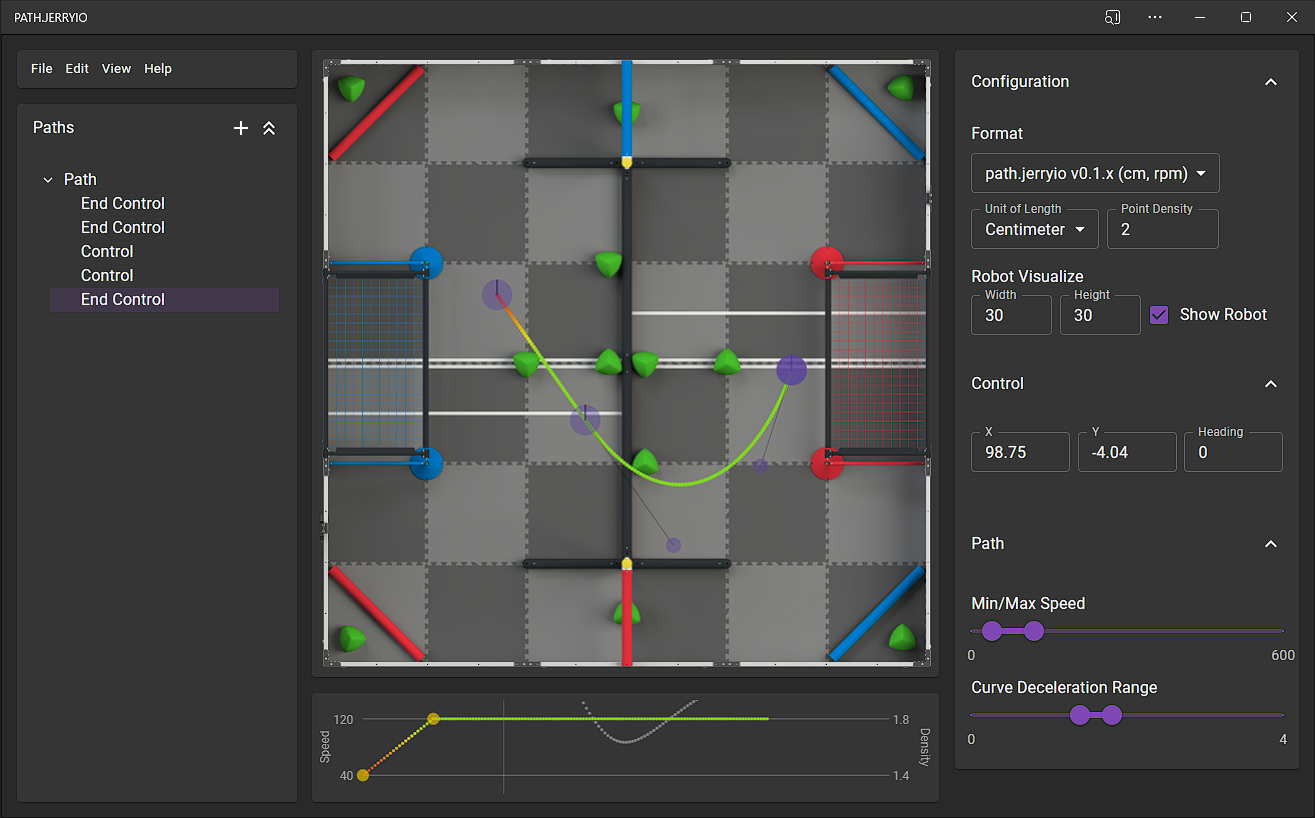
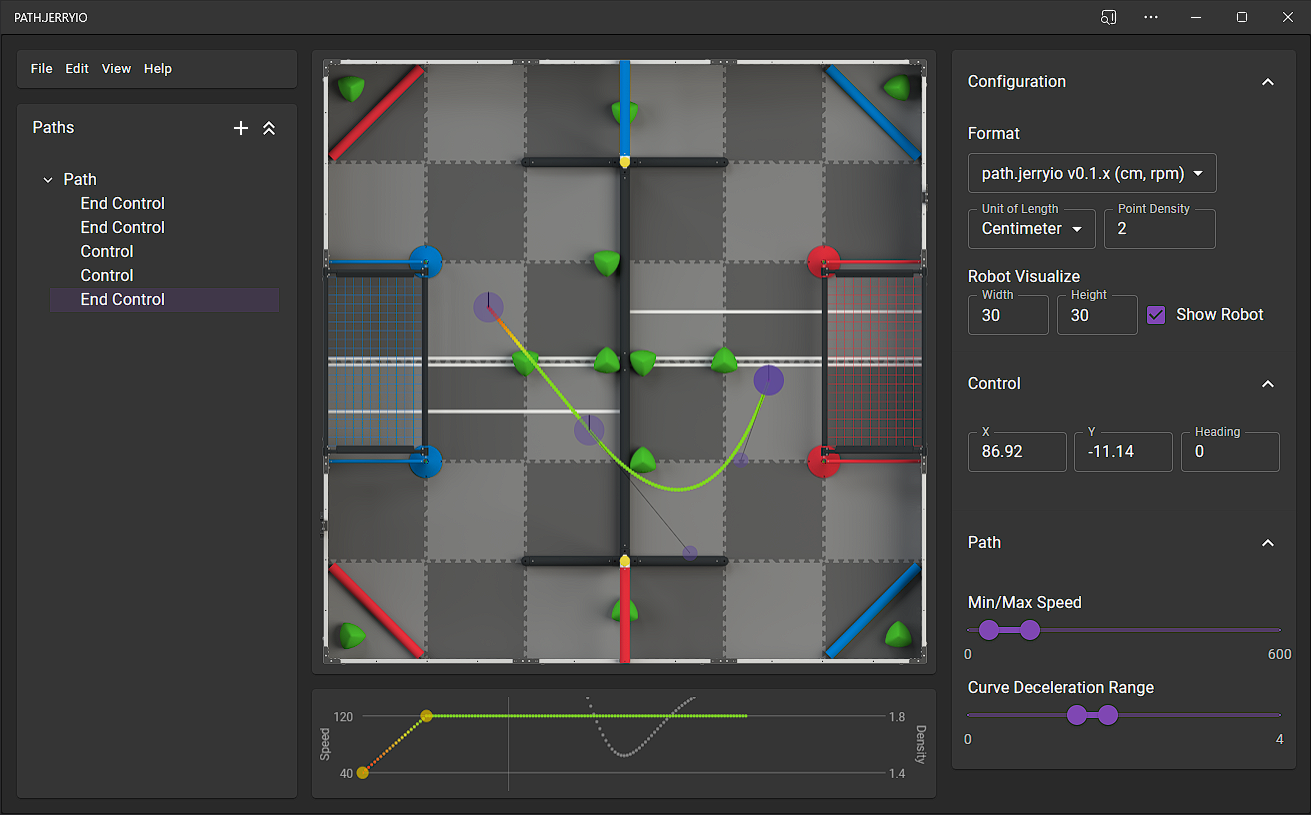
:art: Fix theme color

diff --git a/src/App.scss b/src/App.scss
@@ -224,6 +224,11 @@
   transition: none !important;
 }
 
+// For accordion
+.MuiPaper-root {
+  background-image: none !important; // remove tiny dot pattern in accordion
+}
+
 .notistack-SnackbarContainer {
   font-family: "Roboto", "Helvetica", "Arial", sans-serif;
 }

diff --git a/src/app/Theme.tsx b/src/app/Theme.tsx
@@ -31,7 +31,7 @@ const darkTheme: AppThemeInfo = {
       },
       background: {
         default: '#1E1E1E',
-        paper: '#2A2A2A'
+        paper: '#353535'
       },
     },
     components: componentsStyleOverrides
